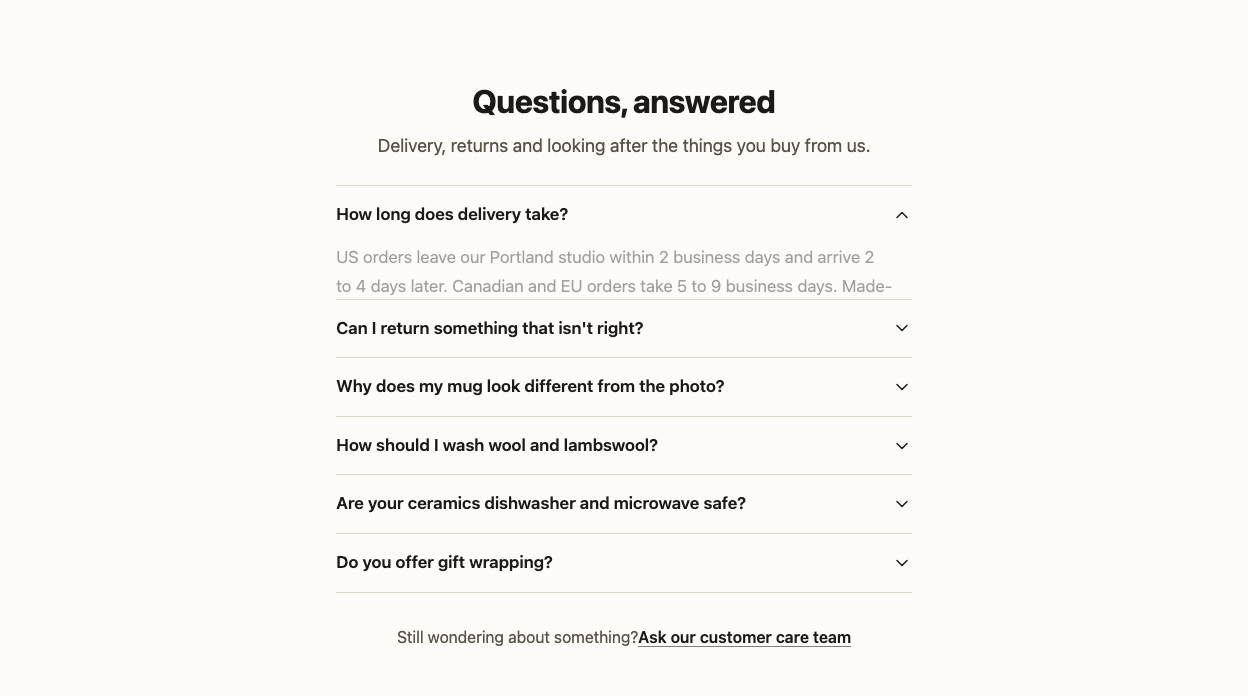
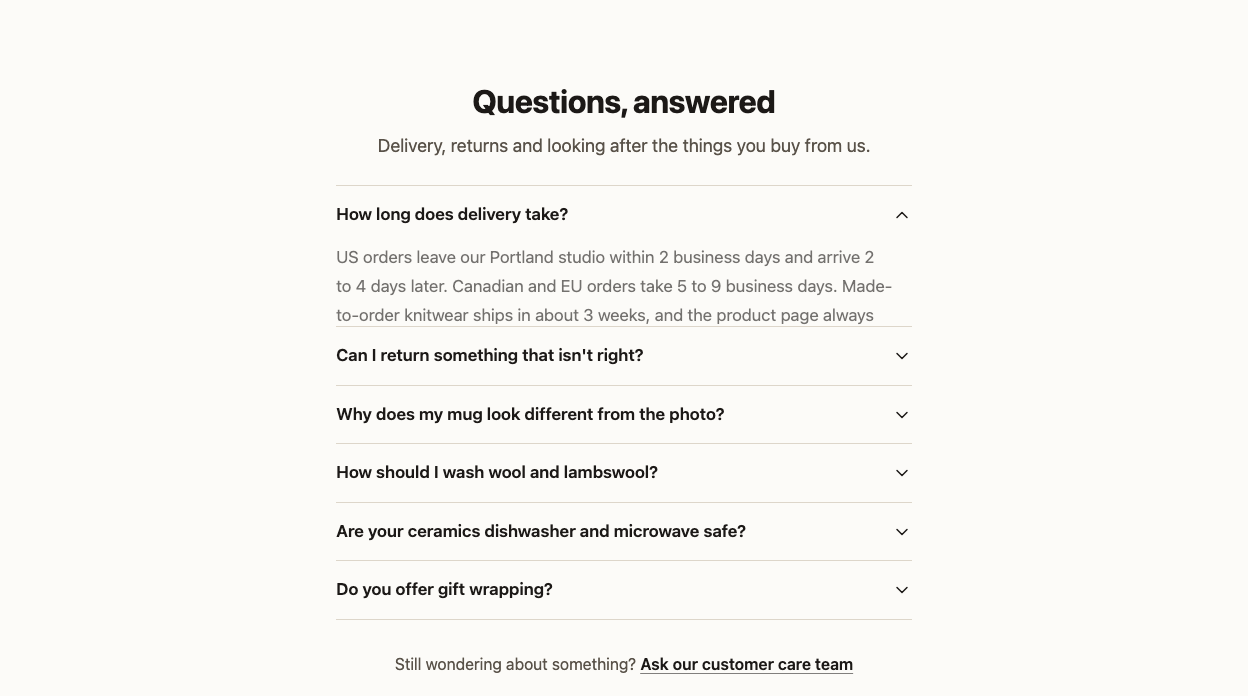
fix(starter): faq contact line keeps the space before its link
Claude-Session: https://claude.ai/code/session_01PrhRPeSEXfCewda5L33mmT

Changed region(s): [[0.25, 0.3621, 0.7188, 0.6034], [0.25, 0.6336, 0.5938, 0.875], [0.3125, 0.9052, 0.6875, 0.9655]]

diff --git a/examples/starter-nuxt/blocks/faq/Block.vue b/examples/starter-nuxt/blocks/faq/Block.vue
@@ -146,7 +146,7 @@ useRichTextScrollRegions(accordionRoot, (caption) => caption ?? t('faq.richTextT
           <p v-if="hasIntro" class="text-muted text-body-lg">{{ intro }}</p>
           <EditorPlaceholder v-else-if="showIntroHint" inline :label="t('faq.introHintLabel')" />
           <p v-if="hasContactLink" class="text-muted text-base">
-            <template v-if="contactText">{{ contactText }} </template>
+            {{ contactText }}
             <Link
               :href="contactHref!"
               :as="contactLinkAs"
@@ -223,7 +223,7 @@ useRichTextScrollRegions(accordionRoot, (caption) => caption ?? t('faq.richTextT
         </div>
 
         <p v-if="hasContactLink" class="text-muted mt-8 text-center text-base">
-          <template v-if="contactText">{{ contactText }} </template>
+          {{ contactText }}
           <Link
             :href="contactHref!"
             :as="contactLinkAs"

diff --git a/examples/starter-nuxt/blocks/faq/__tests__/Block.spec.ts b/examples/starter-nuxt/blocks/faq/__tests__/Block.spec.ts
@@ -78,6 +78,8 @@ describe('faq block', () => {
     for (const item of mock.items) expect(wrapper.text()).toContain(item.question);
     expect(wrapper.text()).toContain(mock.contactText);
     expect(wrapper.text()).toContain(mock.contactLinkLabel);
+    // The lead-in and the link are one sentence: a space must separate them.
+    expect(wrapper.text()).toContain(`${mock.contactText} ${mock.contactLinkLabel}`);
     expect(await axe(wrapper.element)).toHaveNoViolations();
   });
 
